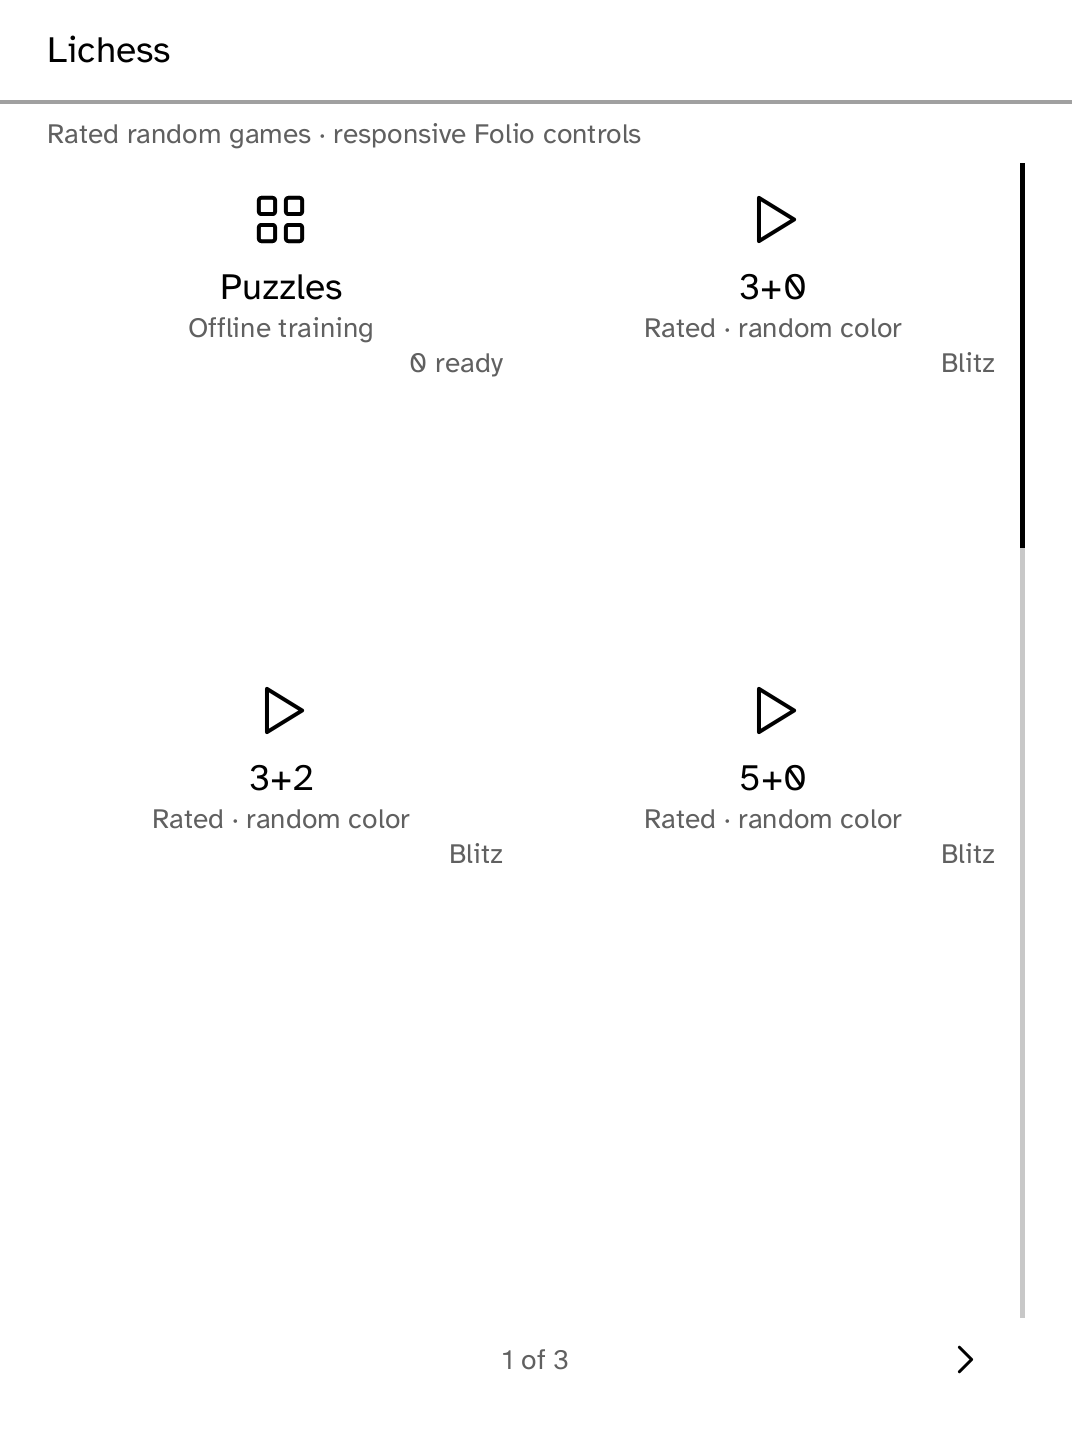
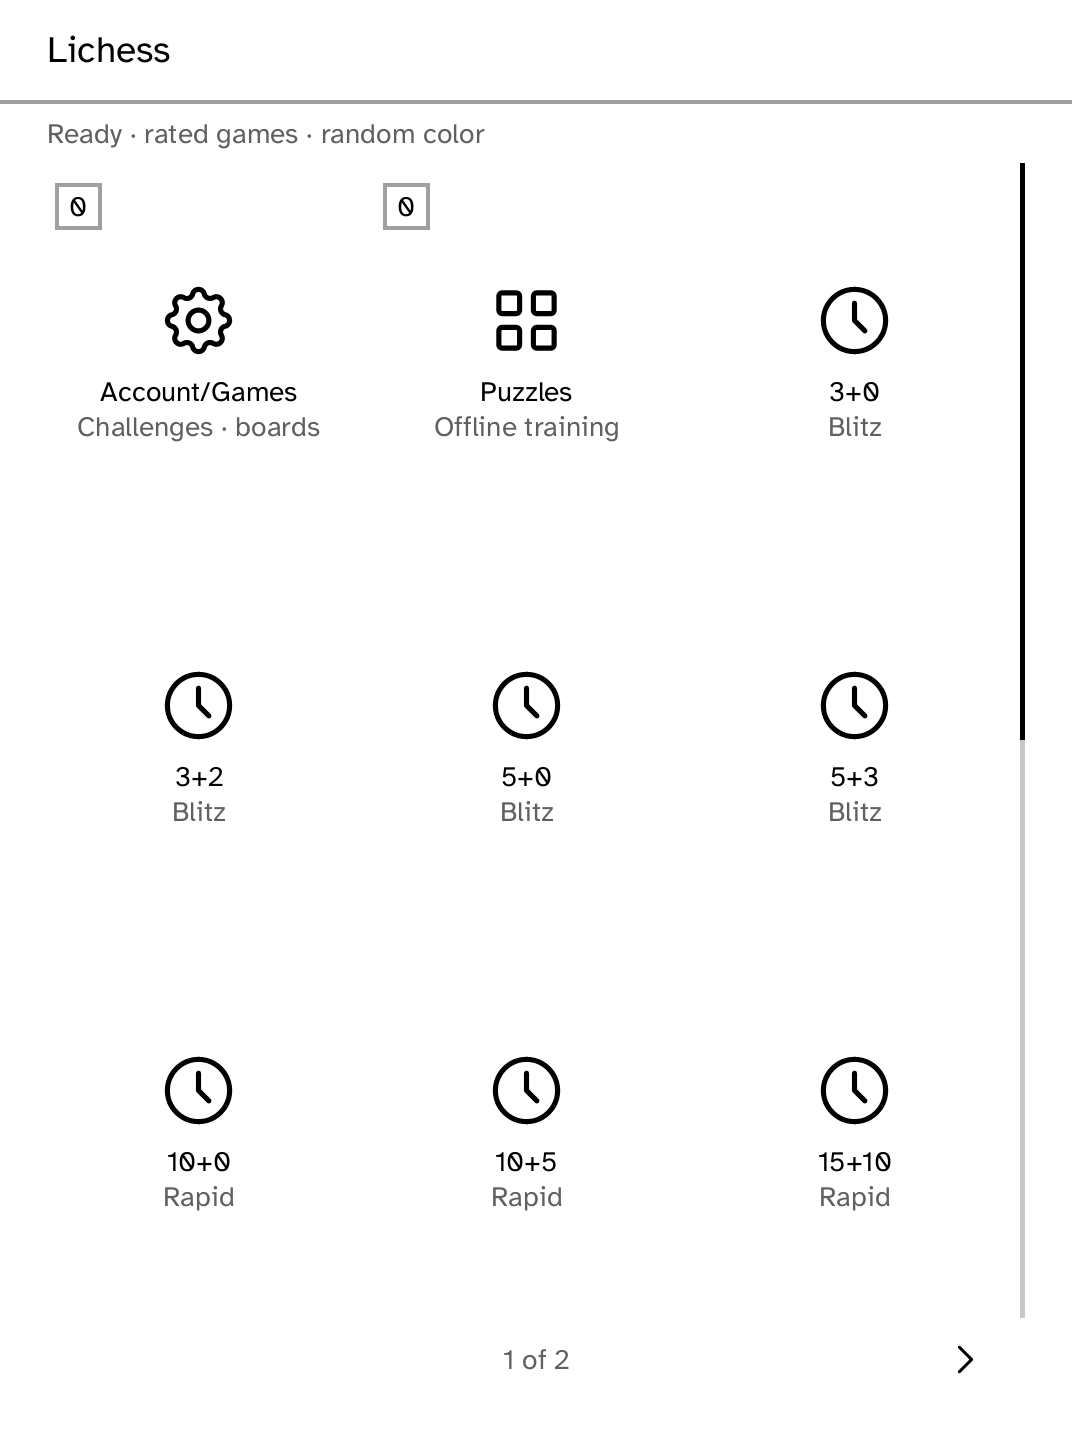
Tighten Lichess quick-pair grid

diff --git a/apps/lichess/src/main.rs b/apps/lichess/src/main.rs
@@ -13,7 +13,6 @@ use kobo_json::{ObjectBuilder, Value};
 use kobo_sdk::{
     action_id, ActionId, BannerLevel, Context, ControlState, Failure, Glyph, Heartbeat, KoboApp,
     Screen, ScreenBuilder, StoreResult, Task, TaskError, TaskId, TaskOutcome, Tile, TileShape,
-    TileState,
 };
 use model::{
     Account, ApplyState, Challenge, ChallengeDirection, Color, FullGame, Game, GameSummary, Session,
@@ -364,6 +363,7 @@ impl Lichess {
 
     fn seek_ready(&self) -> bool {
         matches!(self.account, AccountState::Ready(_))
+            && !self.suspended
             && self.event_open
             && self.playing_ready
             && self.seek_task.is_none()
@@ -371,13 +371,45 @@ impl Lichess {
             && !self.has_pending(|pending| matches!(pending, Pending::SeekReconcile { .. }))
             && self.seek_rate_remaining().unwrap_or(0) == 0
             && self.game.as_ref().is_none_or(|game| !game.active())
+            && self.accepted_challenge.is_none()
             && self.pending_action.is_none()
+    }
+
+    fn pairing_status(&self) -> String {
+        if self.seek_ready() {
+            return "Ready · rated games · random color".to_owned();
+        }
+        if let Some(remaining) = self
+            .seek_rate_remaining()
+            .filter(|remaining| *remaining > 0)
+        {
+            return format!("Pairing unavailable · retry in {remaining}s");
+        }
+        match self.account {
+            AccountState::Unknown | AccountState::Missing | AccountState::Invalid => {
+                "Pairing unavailable · open Account/Games to connect".to_owned()
+            }
+            AccountState::Checking => "Pairing unavailable · checking account".to_owned(),
+            AccountState::Failed(_) => {
+                "Pairing unavailable · check Account/Games status".to_owned()
+            }
+            AccountState::Ready(_) if !self.event_open => {
+                "Pairing unavailable · preparing event stream".to_owned()
+            }
+            AccountState::Ready(_) if !self.playing_ready => {
+                "Pairing unavailable · refreshing current games".to_owned()
+            }
+            AccountState::Ready(_) if self.game.as_ref().is_some_and(Game::active) => {
+                "Pairing unavailable · a board is active".to_owned()
+            }
+            AccountState::Ready(_) => "Pairing unavailable · request in progress".to_owned(),
+        }
     }
 
     fn home_header(&self) -> ScreenBuilder {
         let mut screen = ScreenBuilder::new("lichess-home")
             .top_bar("Lichess")
-            .secondary("Rated random games · responsive Folio controls");
+            .secondary(self.pairing_status());
         if let Some(notice) = &self.notice {
             screen = screen.banner(BannerLevel::Attention, notice);
         }
@@ -387,7 +419,7 @@ impl Lichess {
     fn home_pages(&self, context: &Context) -> Vec<Vec<usize>> {
         let pages = context.paginate_tiles_under(
             HOME_TILE_COUNT,
-            TileShape::Card,
+            TileShape::Square,
             false,
             &self.home_header().build(),
         );
@@ -410,50 +442,43 @@ impl Lichess {
         let page_count = u16::try_from(pages.len()).unwrap_or(u16::MAX);
         let page_index = u16::try_from(page).unwrap_or(u16::MAX);
         let page_number = u16::try_from(page.saturating_add(1)).unwrap_or(u16::MAX);
-        let ready = self.seek_ready();
         self.home_header()
             .page_rail(page_index, page_count)
             .tile_grid(
-                TileShape::Card,
+                TileShape::Square,
                 pages[page].iter().map(|&index| {
-                    let (action, label, glyph, caption, value, available) = if index == 0 {
+                    let (action, label, glyph, subtitle, badge) = if index == 0 {
+                        (
+                            "play".to_owned(),
+                            "Account/Games".to_owned(),
+                            Glyph::Settings,
+                            "Challenges · boards".to_owned(),
+                            games.to_string(),
+                        )
+                    } else if index == 1 {
                         (
                             "puzzles".to_owned(),
                             "Puzzles".to_owned(),
                             Glyph::Grid,
                             "Offline training".to_owned(),
-                            format!("{} ready", self.remaining_puzzles()),
-                            true,
+                            self.remaining_puzzles().to_string(),
                         )
-                    } else if let Some(preset) = SeekPreset::ALL.get(index - 1).copied() {
+                    } else {
+                        let preset = SeekPreset::ALL[index - 2];
                         (
                             preset.action().to_owned(),
                             preset.label(),
-                            Glyph::Play,
-                            if ready {
-                                "Rated · random color".to_owned()
-                            } else {
-                                "Rated · connect in Account / Games".to_owned()
-                            },
+                            Glyph::Clock,
                             preset.speed_label().to_owned(),
-                            ready,
-                        )
-                    } else {
-                        (
-                            "play".to_owned(),
-                            "Account / Games".to_owned(),
-                            Glyph::Settings,
-                            "Challenges · current board · refresh".to_owned(),
-                            format!("{games} active"),
-                            true,
+                            String::new(),
                         )
                     };
                     (action, label, glyph, move |tile: Tile| {
-                        let tile = tile.with_caption(caption).with_value(value);
-                        if available {
+                        let tile = tile.with_subtitle(subtitle);
+                        if badge.is_empty() {
                             tile
                         } else {
-                            tile.with_state(TileState::Unavailable)
+                            tile.with_badge(badge)
                         }
                     })
                 }),
@@ -1543,10 +1568,9 @@ impl Lichess {
             }
             self.clear_seek_rate_limit(context);
         }
-        if self.seek_task.is_some() || !self.event_open || !self.playing_ready {
+        if !self.seek_ready() {
             self.notice = Some(
-                "The event stream and current-game snapshot must be ready before pairing."
-                    .to_owned(),
+                "Pairing is unavailable. Open Account/Games for status or refresh.".to_owned(),
             );
             return;
         }
@@ -3205,6 +3229,9 @@ impl Lichess {
                 self.playing_ready = true;
                 self.route = Route::Home;
             }
+            "home-disabled" => {
+                self.route = Route::Home;
+            }
             "game" => {
                 self.account = AccountState::Ready(Account {
                     id: "demo-owner".to_owned(),
@@ -3456,8 +3483,10 @@ impl KoboApp for Lichess {
                 };
             }
         } else if action == action_id("puzzles") {
+            self.home_page = 0;
             self.route = Route::Puzzles;
         } else if action == action_id("play") {
+            self.home_page = 0;
             self.route = Route::Play;
             self.validate_account(context);
         } else if action == action_id("home-next") || action == action_id("home-previous") {
@@ -3844,7 +3873,8 @@ mod tests {
         TaskOutcome,
     };
     use kobo_ui::{
-        Chrome, DisplayMetrics, Node, TextScale, TileShape, TileState, CLARA_BW_METRICS,
+        Chrome, DisplayMetrics, Glyph, LayoutKind, Node, TextScale, TileShape, TileState,
+        CLARA_BW_METRICS,
     };
     use std::collections::BTreeSet;
 
@@ -3965,6 +3995,18 @@ mod tests {
             .collect()
     }
 
+    fn visible_tile_actions(screen: &Screen, metrics: &DisplayMetrics) -> BTreeSet<ActionId> {
+        screen
+            .layout_with(metrics, &Chrome::with_back(false))
+            .nodes
+            .iter()
+            .filter_map(|node| match node.kind {
+                LayoutKind::Tile(action, _) => Some(action),
+                _ => None,
+            })
+            .collect()
+    }
+
     #[test]
     fn black_orientation_and_live_controls_fit_clara_bw() {
         let app = app_with_game(&["e2e4", "c7c5", "g1f3"], Color::Black);
@@ -4012,15 +4054,26 @@ mod tests {
                         node.kind
                     );
                 }
+                let mut declared = BTreeSet::new();
                 for node in &screen.nodes {
                     if let Node::TileGrid { shape, tiles, .. } = node {
-                        assert_eq!(*shape, TileShape::Card);
+                        assert_eq!(*shape, TileShape::Square);
                         for tile in tiles {
-                            assert!(!tile.value.is_empty());
-                            seen.insert(tile.action);
+                            assert!(!tile.subtitle.is_empty());
+                            declared.insert(tile.action);
                         }
                     }
                 }
+                let visible = visible_tile_actions(&screen, &metrics);
+                assert_eq!(
+                    visible, declared,
+                    "{name}: page {page} declared a tile that was not laid out"
+                );
+                if page == 0 {
+                    assert!(visible.contains(&action_id("play")));
+                    assert!(visible.contains(&action_id("puzzles")));
+                }
+                seen.extend(visible);
                 let Some(next) = painted(runner.action(action_id("home-next"))) else {
                     break;
                 };
@@ -4031,36 +4084,105 @@ mod tests {
     }
 
     #[test]
-    fn unavailable_home_presets_are_disabled_but_account_and_puzzles_remain_open() {
-        let context = Context::default();
-        let mut app = Lichess::default();
-        let pages = app.home_pages(&context);
-        let mut preset_states = Vec::new();
-        let mut utility_states = Vec::new();
-        for page in 0..pages.len() {
-            app.home_page = page;
-            for node in &app.home(&context).nodes {
-                if let Node::TileGrid { tiles, .. } = node {
-                    for tile in tiles {
-                        if api::SeekPreset::ALL
-                            .into_iter()
-                            .any(|preset| tile.action == action_id(preset.action()))
-                        {
-                            preset_states.push(tile.state);
-                        } else {
-                            utility_states.push(tile.state);
-                        }
-                    }
-                }
+    fn unready_home_uses_one_status_and_safe_tiles_without_close_accessories() {
+        let mut runner = AppRunner::new(Lichess::default());
+        let screen = painted(runner.start()).expect("home");
+        assert!(format!("{screen:?}").contains("Pairing unavailable"));
+        for node in &screen.nodes {
+            if let Node::TileGrid { tiles, .. } = node {
+                assert!(tiles.iter().all(|tile| tile.state == TileState::Normal));
             }
         }
-        assert_eq!(preset_states.len(), api::SeekPreset::ALL.len());
-        assert!(preset_states
+        assert!(!screen
+            .layout_with(&CLARA_BW_METRICS, &Chrome::with_back(false))
+            .nodes
             .iter()
-            .all(|state| *state == TileState::Unavailable));
-        assert!(utility_states
-            .iter()
-            .all(|state| *state == TileState::Normal));
+            .any(|node| node.kind == LayoutKind::TileGlyph(Glyph::Close)));
+        let commands = runner.action(action_id(api::SeekPreset::Blitz3_0.action()));
+        assert!(!commands.iter().any(|command| {
+            matches!(
+                command,
+                Command::Spawn {
+                    work: kobo_sdk::Task::Post { url, .. },
+                    ..
+                } if url.ends_with("/api/board/seek")
+            )
+        }));
+        assert_eq!(runner.app().route, Route::Home);
+        assert!(runner
+            .app()
+            .notice
+            .as_deref()
+            .unwrap_or_default()
+            .contains("Account/Games"));
+    }
+
+    #[test]
+    fn clara_home_is_dense_in_portrait_and_landscape() {
+        for (name, metrics, minimum) in [
+            ("portrait", CLARA_BW_METRICS, 9),
+            (
+                "landscape",
+                DisplayMetrics {
+                    width: CLARA_BW_METRICS.height,
+                    height: CLARA_BW_METRICS.width,
+                    ..CLARA_BW_METRICS
+                },
+                8,
+            ),
+        ] {
+            let mut runner = AppRunner::with_metrics(ready_app(), metrics);
+            let screen = painted(runner.start()).expect("home");
+            let layout = screen.layout_with(&metrics, &Chrome::with_back(false));
+            let tiles = layout
+                .nodes
+                .iter()
+                .filter(|node| matches!(node.kind, LayoutKind::Tile(_, _)))
+                .collect::<Vec<_>>();
+            let visible = visible_tile_actions(&screen, &metrics);
+            assert!(
+                visible.len() >= minimum,
+                "Clara {name} showed only {} tiles",
+                visible.len()
+            );
+            assert!(visible.contains(&action_id("play")));
+            assert!(visible.contains(&action_id("puzzles")));
+            assert!(tiles.iter().all(|tile| {
+                tile.rect.width >= metrics.touch_target_minimum()
+                    && tile.rect.height >= metrics.touch_target_minimum()
+            }));
+            if name == "portrait" {
+                assert_eq!(
+                    tiles
+                        .iter()
+                        .map(|tile| tile.rect.x)
+                        .collect::<BTreeSet<_>>()
+                        .len(),
+                    3
+                );
+                assert_eq!(
+                    tiles
+                        .iter()
+                        .map(|tile| tile.rect.y)
+                        .collect::<BTreeSet<_>>()
+                        .len(),
+                    3
+                );
+            }
+        }
+    }
+
+    #[test]
+    fn returning_from_account_games_restores_the_primary_home_page() {
+        let mut app = ready_app();
+        app.home_page = 2;
+        let mut context = Context::default();
+        app.on_action(&mut context, action_id("play"));
+        assert_eq!(app.home_page, 0);
+        assert_eq!(app.route, Route::Play);
+        app.on_action(&mut context, ActionId::BACK);
+        assert_eq!(app.route, Route::Home);
+        assert_eq!(app.home_page, 0);
     }
 
     #[test]

diff --git a/apps/lichess/README.md b/apps/lichess/README.md
@@ -12,6 +12,10 @@ resign, conservative abort, and opponent-gone victory claims.
 Account-global starts are confirmed explicitly before opening:
 ![A confirmation screen for a selected-preset game recovered from the global account state](screenshots/candidate.png)
 
+Before account and stream readiness, the same dense chooser remains safe and
+uses one concise page status instead of per-tile failure marks:
+![The Lichess chooser with Account/Games and Puzzles first and a single pairing-unavailable status](screenshots/readiness.png)
+
 An ended seek enters an explicit current-game reconciliation state:
 ![The selected preset waiting while current games are checked after the seek transport ended](screenshots/reconciling.png)
 
